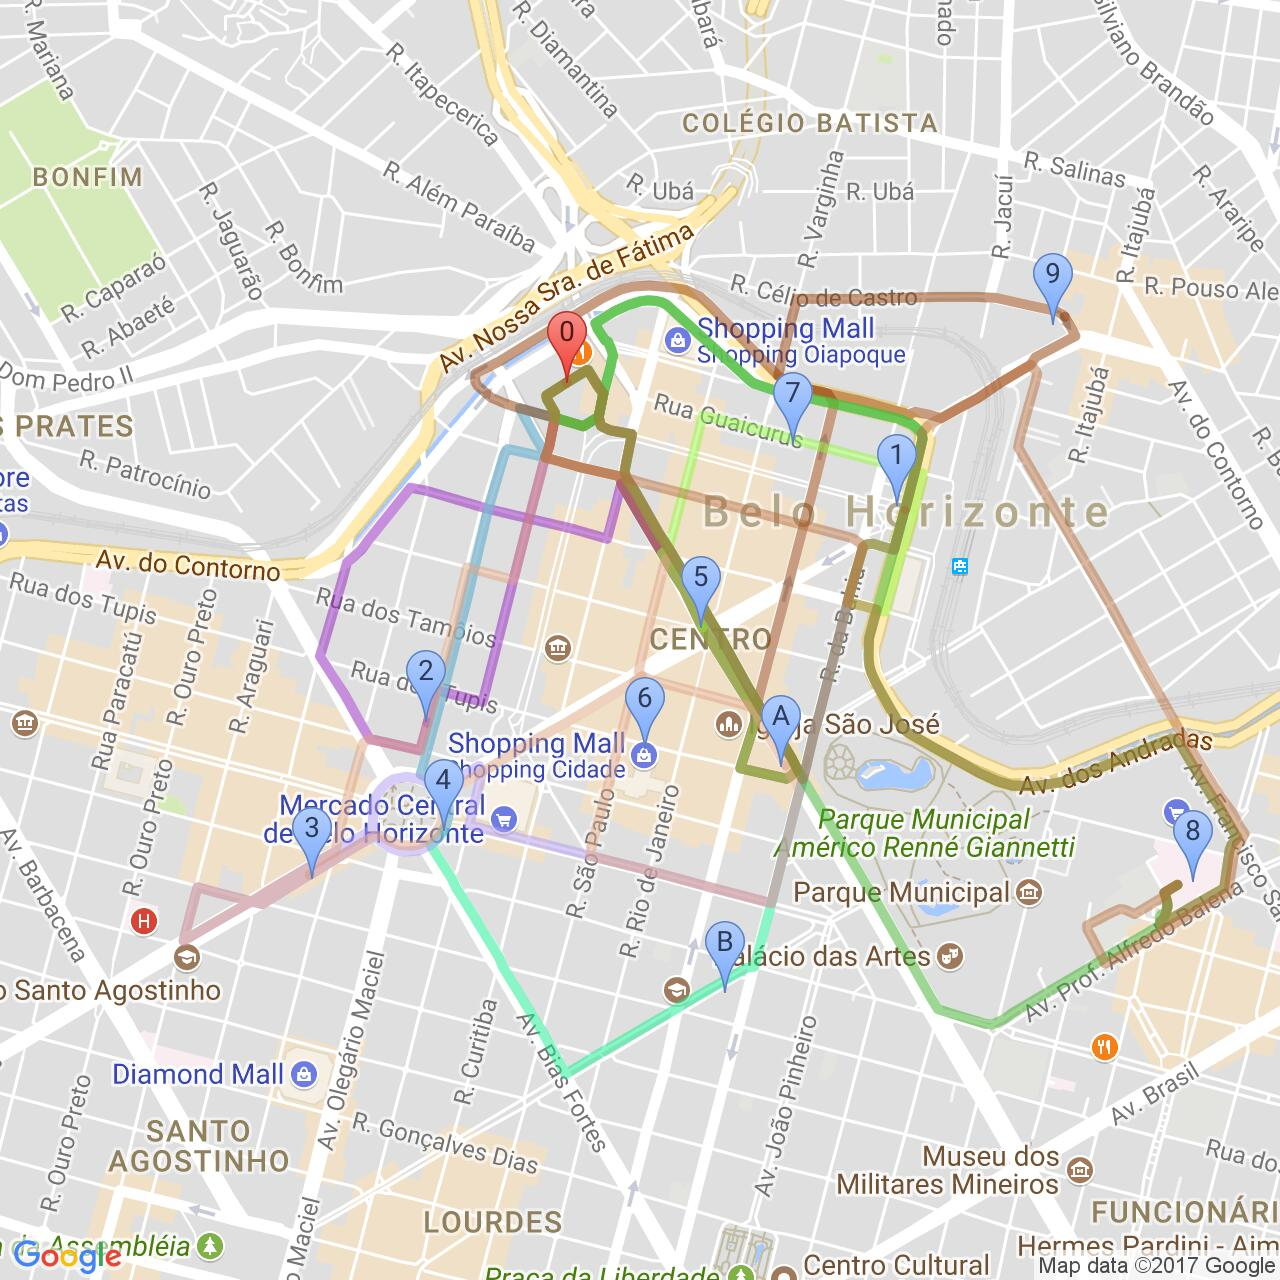
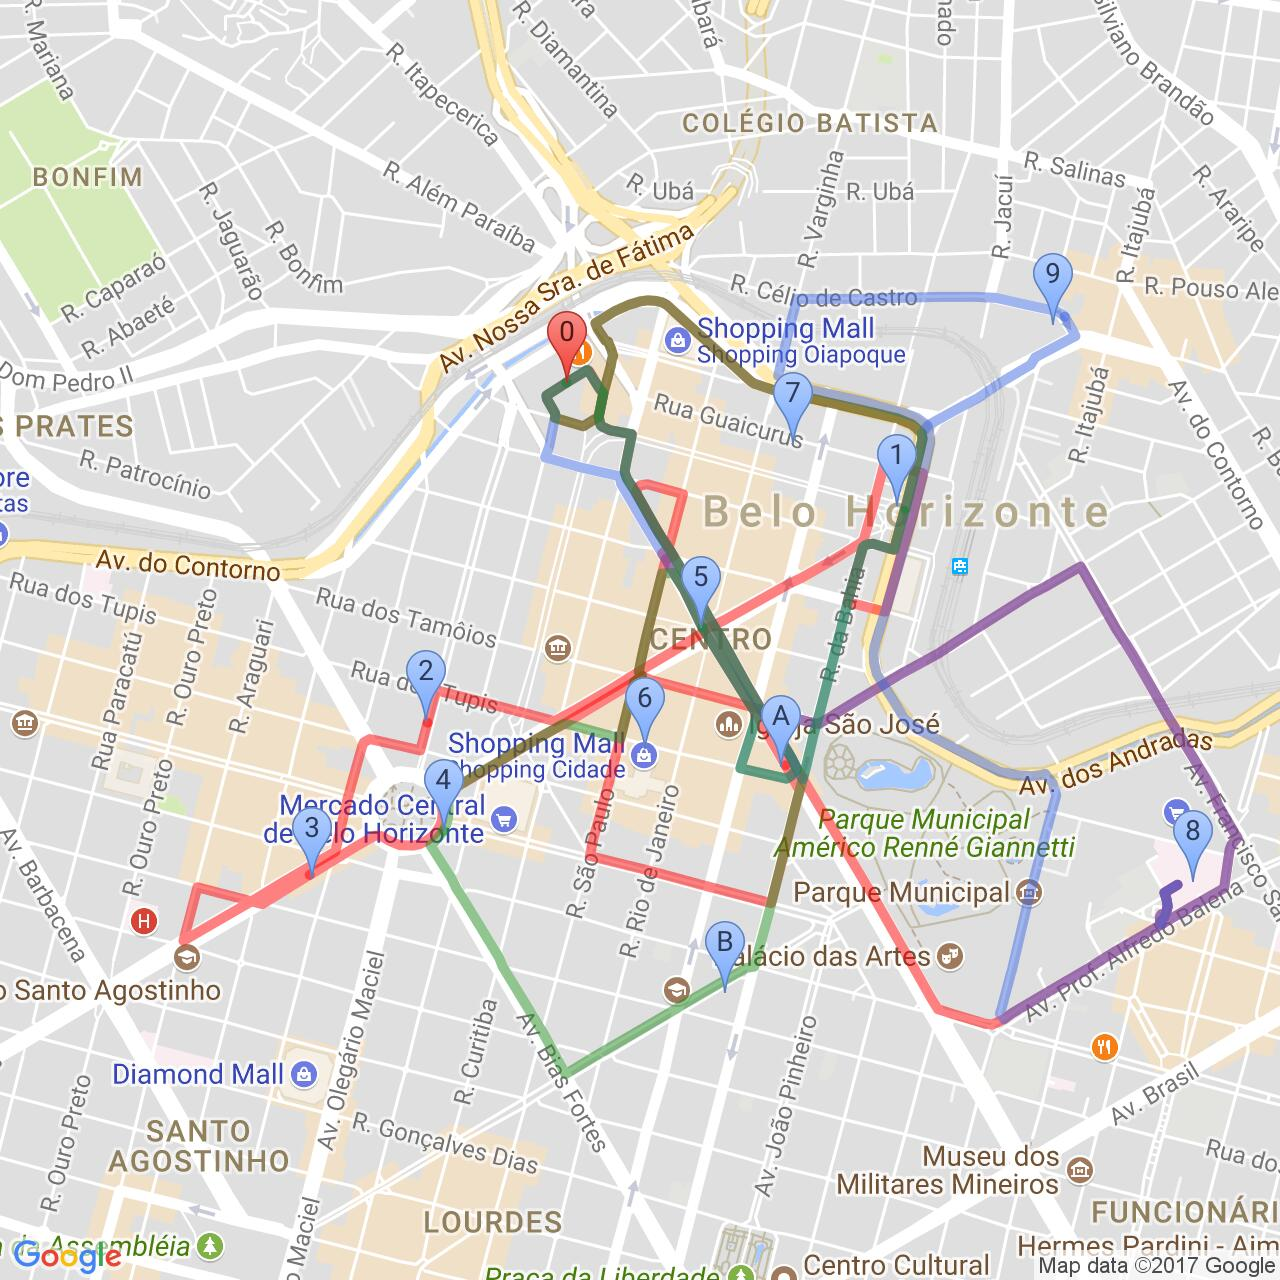
- padronização nas cores das rotas

diff --git a/src/main/java/GoogleMapsApi/GoogleStaticMap.java b/src/main/java/GoogleMapsApi/GoogleStaticMap.java
@@ -54,11 +54,13 @@ public class GoogleStaticMap {
     private List<Integer> route;
     private String adjacenciesTable;
     private String nodesTable;
+    private ColorGenerator colorGenerator;
 
     public GoogleStaticMap(List<Node> nodesList, String adjacenciesTable, String nodesTable) throws IOException {
         this.nodesList = nodesList;
         this.route = route;
         this.nodesTable = nodesTable;
+        this.colorGenerator = new ColorGenerator();
         String folder;
         folder = "RouteDataForStaticMap";
 
@@ -66,14 +68,16 @@ public class GoogleStaticMap {
         boolean successForCreateStaticMapsFolder = (new File(staticMapsFolder)).mkdirs();
 
         buildStringWithNodeMarkets();
+
     }
 
     public GoogleStaticMap(List<Node> nodesList, List<Integer> route, String adjacenciesTable, String nodesTable)
             throws IOException {
-        
+
         this.nodesList = nodesList;
         this.route = route;
         this.nodesTable = nodesTable;
+        this.colorGenerator = new ColorGenerator();
         String folder;
         folder = "RouteDataForStaticMap";
 
@@ -98,6 +102,7 @@ public class GoogleStaticMap {
         this.nodesList = nodesList;
         this.routes = routes;
         this.nodesTable = nodesTable;
+        this.colorGenerator = new ColorGenerator();
         String folder;
         folder = "RouteDataForStaticMap";
 
@@ -134,7 +139,7 @@ public class GoogleStaticMap {
     }
 
     private void buildPathForMapWithOneRoute(String adjacenciesTable, String nodesTable) {
-        String color = new ColorGenerator().generatesColor();
+        String color = this.colorGenerator.generatesColor();
         correctRouteAddingTheDepot(this.route);
 
         for (int i = 0; i < route.size() - 1; i++) {
@@ -148,7 +153,8 @@ public class GoogleStaticMap {
 
     private void buildPathForMapWithAllRoutes(String adjacenciesTable, String nodesTable) {
         for (List<Integer> route : routes) {
-            String color = new ColorGenerator().generatesColor();
+            String color = this.colorGenerator.generatesColor();
+            System.out.println(color);
             correctRouteAddingTheDepot(route);
             for (int i = 0; i < route.size() - 1; i++) {
                 int origin = route.get(i);

diff --git a/src/main/java/GoogleMapsApi/ColorGenerator.java b/src/main/java/GoogleMapsApi/ColorGenerator.java
@@ -15,35 +15,63 @@ import java.util.Random;
  */
 public class ColorGenerator {
 
-    private static int colorCounter = 0;
+    private static int colorCounter;
     private static List<String> listOfColors = new ArrayList<>();
 
-    public String generatesColor() {
+    public ColorGenerator() {
+        colorCounter = 0;
+    }
+
+    public String generatesRandomColor() {
         StringBuilder color = new StringBuilder();
         Random rnd = new Random();
 
         color.append("0x");
         for (int i = 0; i < 6; i++) {
             int number = rnd.nextInt(16);
-            if(number == 10){
+            if (number == 10) {
                 color.append("a");
-            }else if(number == 11){
+            } else if (number == 11) {
                 color.append("b");
-            }else if(number == 12){
+            } else if (number == 12) {
                 color.append("c");
-            }else if(number == 13){
+            } else if (number == 13) {
                 color.append("d");
-            }else if(number == 14){
+            } else if (number == 14) {
                 color.append("e");
-            }else if(number == 15){
+            } else if (number == 15) {
                 color.append("f");
-            }else{
+            } else {
                 color.append(number);
             }
-            
+
         }
         listOfColors.add(color.toString());
         return color.toString();
+    }
+
+    public static String generatesColor() {
+        loadColors();
+        String color = listOfColors.get(colorCounter);
+        colorCounter++;
+        return color;
+    }
+
+    private static void loadColors() {
+        listOfColors.add("0xFF0000");
+        listOfColors.add("0x4169E1");
+        listOfColors.add("0x228B22");
+        listOfColors.add("0xD2691E");
+        listOfColors.add("0x00FF7F");
+        listOfColors.add("0x20B2AA");
+        listOfColors.add("0x708090");
+        
+        listOfColors.add("0x9400D3");
+        listOfColors.add("0xDC143C");
+        listOfColors.add("0xFFD700");
+        listOfColors.add("0xBC8F8F");
+        listOfColors.add("0xD2691E");
+
     }
 
 }

diff --git a/src/main/java/VRPDRTSD/Main.java b/src/main/java/VRPDRTSD/Main.java
@@ -13,10 +13,10 @@ public class Main {
         String nodesData = "bh_n12s";
         String adjacenciesData = "bh_adj_n12s";
         int numberOfVehicles = 50;
-        int vehicleCapacity = 1;
+        int vehicleCapacity = 11;
         System.out.println("Testing VRPDRTSD class");
         VRPDRTSD problem = new VRPDRTSD(instanceName, nodesData, adjacenciesData, numberOfVehicles, vehicleCapacity);
-        problem.buildSelfishSolution();
+        problem.buildGreedySolution();
         problem.getSolution().printAllInformations();
         System.out.println(problem.getSolution());
         problem.getSolution().getStaticMapWithAllRoutes(problem.getData().getNodes(), adjacenciesData, nodesData);
@@ -24,7 +24,7 @@ public class Main {
         problem.localSearch(8);
         problem.getSolution().getStaticMapWithAllRoutes(problem.getData().getNodes(), adjacenciesData, nodesData);
         //problem.buildRandomSolution();
-        //System.out.println(problem.getSolution());
+        System.out.println(problem.getSolution());
         //problem.getSolution().getStaticMapWithAllRoutes(problem.getData().getNodes(), adjacenciesData, nodesData);
     }
 }

diff --git a/src/main/java/VRPDRTSD/VRPDRTSD.java b/src/main/java/VRPDRTSD/VRPDRTSD.java
@@ -676,9 +676,5 @@ public class VRPDRTSD implements Heuristic {
         
         
         return idsUsed;
-//        return solution.getRoute(routePosition).getIntegerRouteRepresetation()
-//                .stream()
-//                .filter(u -> u.intValue() > 0)
-//                .collect(Collectors.toCollection(ArrayList::new));
     }
 }
